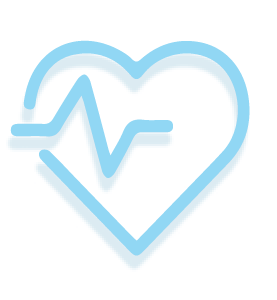
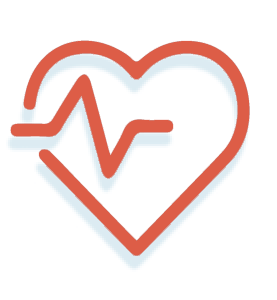
Restyle hero, add NFC header, swap to ®, refine colors and assets
Visual + brand updates accumulated across this session:
- Add Header component with the NFC shield logo (high-res Image) and
  hamburger nav. Move the sticky "You're at a Fitness Court®" banner
  above the header so it pins to the very top.
- New hero: full-bleed photo at its native 1665:1205 aspect, text
  overlaid on the upper-left aligned with the top of the phone.
- "Save your streak" -> "Join 130,000+ Americans staying active
  outdoors." with "Take the Fitness Court® with you and download the
  app." as the subtitle.
- Add ® to all Fitness Court mentions across hero, sticky banner,
  page metadata, video iframe title, find-court card, and "See how
  the Fitness Court® works in 1 minute" video heading.
- Swap the rendered flame emoji on the check-in banner to /fire.png
  with the orange "1 DAY STREAK" label and #f19e3a "You checked in!"
  heading.
- Update health.png to the red EKG heart variant.
- Bump Image sizes/quality for sharper feature and movement icons
  (sizes=160px, quality=95).
- Brand color #1d6fe5 -> #006CA3 across CSS variable, sticky banner,
  pin SVGs, confetti palette, and logo fills.
- Tweak typography to dark slate-700 instead of slate-900 so the
  body text is softer.

Changed region(s): [[0.0289, 0.12, 0.9242, 0.87]]

diff --git a/src/components/CheckInBanner.tsx b/src/components/CheckInBanner.tsx
@@ -1,12 +1,13 @@
 "use client";
 
 import { useCallback, useEffect, useRef } from "react";
+import Image from "next/image";
 import confetti from "canvas-confetti";
 
 import { trackEvent } from "@/lib/analytics";
 import { APP_STORE_URL, GOOGLE_PLAY_URL, pickStoreUrl } from "@/lib/storeLinks";
 
-const CONFETTI_COLORS = ["#1d6fe5", "#22c55e", "#f59e0b", "#ef4444", "#a855f7", "#fb923c"];
+const CONFETTI_COLORS = ["#006CA3", "#22c55e", "#f59e0b", "#ef4444", "#a855f7", "#fb923c"];
 
 function fireConfetti() {
   confetti({
@@ -72,6 +73,7 @@ export function CheckInBanner() {
   }, []);
 
   const handleCardTap = useCallback(() => {
+    trackEvent("checkin_card_tap");
     fireConfetti();
     tryVibrate();
   }, []);
@@ -104,12 +106,17 @@ export function CheckInBanner() {
               className="absolute inset-0 -m-1 rounded-full bg-orange-200/60 motion-safe:animate-ping"
               aria-hidden="true"
             />
-            <div className="relative flex h-16 w-16 items-center justify-center rounded-full bg-white shadow-sm ring-1 ring-sky-200/70">
-              <span
-                className="origin-bottom text-3xl motion-safe:animate-flame-wiggle"
-                aria-hidden="true"
-              >
-                🔥
+            <div className="relative flex h-16 w-16 items-center justify-center rounded-full bg-white shadow-sm ring-1 ring-orange-200/70">
+              <span className="relative h-10 w-10 origin-bottom motion-safe:animate-flame-wiggle">
+                <Image
+                  src="/fire.png"
+                  alt="Streak"
+                  fill
+                  sizes="160px"
+                  quality={95}
+                  className="object-contain"
+                  priority
+                />
               </span>
             </div>
             <span
@@ -121,22 +128,25 @@ export function CheckInBanner() {
               </svg>
             </span>
             <span
-              className="absolute -top-2 -right-3 inline-flex animate-badge-pop items-center gap-0.5 rounded-full bg-orange-100 px-2 py-0.5 text-[10px] font-bold text-orange-600 shadow-sm ring-1 ring-orange-200"
+              className="absolute -top-2 -right-3 inline-flex animate-badge-pop items-center gap-0.5 rounded-full bg-orange-50 px-2 py-0.5 text-[10px] font-bold text-[#f59e0b] shadow-sm ring-1 ring-[#fcd34d]"
               aria-hidden="true"
             >
               +1 day
             </span>
           </div>
           <div className="min-w-0 flex-1">
-            <h3 className="text-[20px] font-extrabold leading-tight text-slate-900">
+            <h3 className="text-[20px] font-extrabold leading-tight text-[#f19e3a]">
               You checked in!
             </h3>
+            <div className="mt-0.5 text-[13px] font-bold uppercase tracking-wide text-[#f59e0b]">
+              1 Day Streak
+            </div>
             <a
               href={APP_STORE_URL}
               target="_blank"
               rel="noopener noreferrer"
               onClick={handleAppLink}
-              className="mt-0.5 inline-flex items-center gap-1 text-[14px] font-semibold text-brand hover:text-brand-dark"
+              className="mt-1 inline-flex items-center gap-1 text-[13px] font-semibold text-brand hover:text-brand-dark"
             >
               Save your streak in the app
               <svg viewBox="0 0 24 24" className="h-3.5 w-3.5" fill="none" stroke="currentColor" strokeWidth="2.5" strokeLinecap="round" strokeLinejoin="round" aria-hidden="true">

diff --git a/src/components/Hero.tsx b/src/components/Hero.tsx
@@ -3,29 +3,26 @@ import { AppStoreBadge, GooglePlayBadge } from "./icons/StoreBadges";
 
 export function Hero() {
   return (
-    <section className="relative pt-4">
+    <section className="relative">
       <div className="relative w-full overflow-hidden bg-[#f6f7f9]">
-        <div className="relative aspect-[3/2] w-full sm:aspect-[16/9]">
+        <div className="relative aspect-[1665/1205] w-full">
           <Image
             src="/hero.png"
-            alt="Fitness Court with the mobile app"
+            alt="Fitness Court® with the mobile app"
             fill
             priority
             sizes="100vw"
-            className="object-cover object-[58%_center]"
+            className="object-cover object-center"
           />
-          <div className="pointer-events-none absolute inset-y-0 left-0 w-3/4 bg-gradient-to-r from-white/70 via-white/25 to-transparent" />
         </div>
 
-        <div className="absolute inset-0 px-5 pt-5 sm:pt-9">
+        <div className="absolute inset-x-0 top-[20%] px-5">
           <div className="mx-auto w-full max-w-md">
-            <h1 className="max-w-[58%] text-[30px] font-extrabold leading-[1.04] tracking-tight text-slate-900 sm:text-[38px]">
-              Save your
-              <br />
-              streak
+            <h1 className="max-w-[58%] text-[22px] font-extrabold leading-[1.06] tracking-tight text-slate-800 sm:text-[28px]">
+              Join 130,000+ Americans staying active outdoors.
             </h1>
             <p className="mt-2.5 max-w-[55%] text-[12px] leading-snug text-slate-700 sm:text-[14px]">
-              Download the free app for guided workouts, check-ins, badges, and challenges.
+              Take the Fitness Court® with you and download the app.
             </p>
           </div>
         </div>

diff --git a/src/components/FindCourt.tsx b/src/components/FindCourt.tsx
@@ -1,6 +1,6 @@
 export function FindCourt() {
   return (
-    <section className="mx-auto max-w-md px-4 pb-24">
+    <section className="mx-auto max-w-md px-4 pb-4">
       <div className="overflow-hidden rounded-2xl bg-white shadow-[0_4px_18px_-6px_rgba(0,0,0,0.08)]">
         <a
           href="https://www.nationalfitnesscampaign.com/map"
@@ -9,9 +9,9 @@ export function FindCourt() {
           className="flex items-center gap-3 p-4 transition active:bg-slate-50"
         >
           <div className="flex-1">
-            <h3 className="text-base font-bold leading-tight">Find another court near you</h3>
+            <h3 className="text-base font-bold leading-tight">Find another Fitness Court® near you</h3>
             <p className="mt-1 text-[12px] leading-snug text-slate-500">
-              Explore nearby Fitness Court locations.
+              Explore nearby Fitness Court® locations.
             </p>
           </div>
           <div className="relative h-16 w-24 shrink-0 overflow-hidden rounded-lg bg-slate-100">
@@ -24,7 +24,7 @@ export function FindCourt() {
             </svg>
             <span className="absolute left-1/2 top-1/2 -translate-x-1/2 -translate-y-1/2">
               <svg viewBox="0 0 32 32" className="h-7 w-7" fill="none" aria-hidden="true">
-                <path d="M16 2C9.92 2 5 6.92 5 13c0 7.5 11 17 11 17s11-9.5 11-17c0-6.08-4.92-11-11-11z" fill="#1d6fe5" />
+                <path d="M16 2C9.92 2 5 6.92 5 13c0 7.5 11 17 11 17s11-9.5 11-17c0-6.08-4.92-11-11-11z" fill="#006CA3" />
                 <circle cx="16" cy="13" r="4" fill="white" />
               </svg>
             </span>

diff --git a/src/components/StickyBanner.tsx b/src/components/StickyBanner.tsx
@@ -17,16 +17,16 @@ export function StickyBanner() {
   }
 
   return (
-    <div className="pointer-events-none fixed inset-x-0 top-0 z-40 px-3 pt-3">
-      <div className="pointer-events-auto mx-auto flex max-w-md items-center gap-3 rounded-2xl bg-brand px-3 py-2.5 text-white shadow-[0_10px_30px_-10px_rgba(29,111,229,0.6)]">
+    <div className="sticky top-0 z-40 px-3 pt-3 pb-2 bg-white/95 backdrop-blur">
+      <div className="mx-auto flex max-w-md items-center gap-3 rounded-2xl bg-brand px-3 py-2.5 text-white shadow-[0_10px_30px_-10px_rgba(0,108,163,0.6)]">
         <span className="flex h-9 w-9 shrink-0 items-center justify-center rounded-full bg-white/15">
           <svg viewBox="0 0 32 32" className="h-5 w-5" fill="none" aria-hidden="true">
             <path d="M16 2C9.92 2 5 6.92 5 13c0 7.5 11 17 11 17s11-9.5 11-17c0-6.08-4.92-11-11-11z" fill="white" />
-            <circle cx="16" cy="13" r="4" fill="#1d6fe5" />
+            <circle cx="16" cy="13" r="4" fill="#006CA3" />
           </svg>
         </span>
         <div className="flex-1 leading-tight">
-          <div className="text-[13px] font-bold">You&apos;re at a Fitness Court.</div>
+          <div className="text-[13px] font-bold">You&apos;re at a Fitness Court®.</div>
           <div className="text-[11px] opacity-90">Get the app to start your 7-minute workout.</div>
         </div>
         <a

diff --git a/src/components/Header.tsx b/src/components/Header.tsx
@@ -1,0 +1,38 @@
+import Image from "next/image";
+
+export function Header() {
+  return (
+    <header className="w-full">
+      <div className="mx-auto flex max-w-md items-center justify-between px-4 py-3">
+        <a
+          href="https://www.nationalfitnesscampaign.com/"
+          target="_blank"
+          rel="noopener noreferrer"
+          aria-label="National Fitness Campaign"
+          className="relative block h-11 w-11"
+        >
+          <Image
+            src="/nfc-logo.png"
+            alt="National Fitness Campaign"
+            fill
+            sizes="200px"
+            quality={95}
+            priority
+            className="object-contain"
+          />
+        </a>
+        <button
+          type="button"
+          aria-label="Open menu"
+          className="flex h-10 w-10 items-center justify-center rounded-md text-slate-700 hover:bg-slate-100"
+        >
+          <svg viewBox="0 0 24 24" className="h-6 w-6" fill="none" stroke="currentColor" strokeWidth="2" strokeLinecap="round">
+            <line x1="4" y1="7" x2="20" y2="7" />
+            <line x1="4" y1="12" x2="20" y2="12" />
+            <line x1="4" y1="17" x2="20" y2="17" />
+          </svg>
+        </button>
+      </div>
+    </header>
+  );
+}

diff --git a/src/components/VideoSection.tsx b/src/components/VideoSection.tsx
@@ -13,7 +13,7 @@ export function VideoSection() {
             Start your journey
           </div>
           <h3 className="mt-1 text-lg font-bold leading-tight tracking-tight">
-            See how the court works in 1 minute
+            See how the Fitness Court® works in 1 minute
           </h3>
           <p className="mt-1.5 text-sm leading-snug text-slate-600">
             Perfect for first-time visitors. Watch a quick, 1-min intro and see how the 7 movements work.
@@ -26,7 +26,7 @@ export function VideoSection() {
         >
           <iframe
             src={`https://www.youtube.com/embed/${VIDEO_ID}?rel=0`}
-            title="Fitness Court 1-minute intro"
+            title="Fitness Court® 1-minute intro"
             allow="accelerometer; autoplay; clipboard-write; encrypted-media; gyroscope; picture-in-picture; web-share"
             referrerPolicy="strict-origin-when-cross-origin"
             allowFullScreen

diff --git a/src/components/FeaturesRow.tsx b/src/components/FeaturesRow.tsx
@@ -28,8 +28,8 @@ export function FeaturesRow() {
         <div className="grid grid-cols-3 gap-3 text-center">
           {items.map(({ src, alt, title, body }) => (
             <div key={title} className="flex flex-col items-center gap-2">
-              <span className="relative inline-block h-8 w-8">
-                <Image src={src} alt={alt} fill sizes="32px" className="object-contain" />
+              <span className="relative inline-block h-10 w-10">
+                <Image src={src} alt={alt} fill sizes="160px" quality={95} className="object-contain" />
               </span>
               <div className="text-[13px] font-semibold leading-tight">{title}</div>
               <p className="text-[11px] leading-snug text-slate-500">{body}</p>

diff --git a/src/app/page.tsx b/src/app/page.tsx
@@ -1,3 +1,4 @@
+import { Header } from "@/components/Header";
 import { Hero } from "@/components/Hero";
 import { CheckInBanner } from "@/components/CheckInBanner";
 import { FeaturesRow } from "@/components/FeaturesRow";
@@ -9,7 +10,9 @@ import { StickyBanner } from "@/components/StickyBanner";
 export default function Page() {
   return (
     <>
-      <main className="flex-1 pt-20">
+      <StickyBanner />
+      <Header />
+      <main className="flex-1">
         <Hero />
         <CheckInBanner />
         <FeaturesRow />
@@ -17,7 +20,6 @@ export default function Page() {
         <VideoSection />
         <FindCourt />
       </main>
-      <StickyBanner />
     </>
   );
 }

diff --git a/src/app/layout.tsx b/src/app/layout.tsx
@@ -12,11 +12,11 @@ const geistSans = Geist({
 export const metadata: Metadata = {
   title: "The Fitness Court® — Take it with you",
   description:
-    "Download the free Fitness Court app for guided workouts, check-ins, badges, and challenges.",
+    "Download the free Fitness Court® App for guided workouts, check-ins, badges, and challenges.",
 };
 
 export const viewport: Viewport = {
-  themeColor: "#1d6fe5",
+  themeColor: "#006CA3",
   width: "device-width",
   initialScale: 1,
 };

diff --git a/src/app/globals.css b/src/app/globals.css
@@ -2,9 +2,9 @@
 
 :root {
   --background: #ffffff;
-  --foreground: #0f172a;
-  --brand: #1d6fe5;
-  --brand-dark: #0b4ea8;
+  --foreground: #334155;
+  --brand: #006CA3;
+  --brand-dark: #005482;
   --muted: #6b7280;
   --card: #ffffff;
   --card-border: #e5e7eb;
@@ -58,7 +58,7 @@
 }
 
 body {
-  background: #f5f7fb;
+  background: #ffffff;
   color: var(--foreground);
   font-family: var(--font-geist-sans), system-ui, -apple-system, "Segoe UI", Roboto, sans-serif;
 }

diff --git a/src/components/icons/ExerciseIcons.tsx b/src/components/icons/ExerciseIcons.tsx
@@ -8,7 +8,7 @@ function makeIcon(src: string, alt: string) {
   function Icon({ className = sizeClass }: IconProps) {
     return (
       <span className={`relative inline-block ${className}`}>
-        <Image src={src} alt={alt} fill sizes="40px" className="object-contain" />
+        <Image src={src} alt={alt} fill sizes="160px" quality={95} className="object-contain" />
       </span>
     );
   }

diff --git a/src/components/icons/Logo.tsx b/src/components/icons/Logo.tsx
@@ -9,7 +9,7 @@ export function Logo({ className = "h-7 w-7" }: { className?: string }) {
     >
       <path
         d="M16 2C9.92 2 5 6.92 5 13c0 7.5 11 17 11 17s11-9.5 11-17c0-6.08-4.92-11-11-11z"
-        fill="#1d6fe5"
+        fill="#006CA3"
       />
       <path
         d="M11 11h3v10h-3V11zm5 0l4 5-4 5h3l4-5-4-5h-3z"
